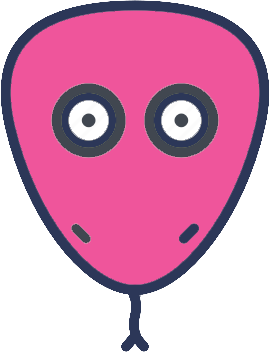
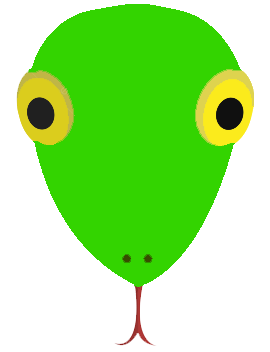
Improved snake design and fixed bugs

diff --git a/snake-game/src/Ai.js b/snake-game/src/Ai.js
@@ -1,13 +1,10 @@
 function aiGridAlignment(snakeHead, setDirection) {
-    if (snakeHead.x > 99) {
+    if (snakeHead.x > 98) {
         snakeHead.x -= 2
         snakeHead.y += 2
-        setDirection("down")
     } else if (snakeHead.x < 0) {
         snakeHead.x += 2
         snakeHead.y += 2
-        setDirection("down")
-
     }
     else if (snakeHead.y > 99) {
         snakeHead.x -= 2
@@ -19,12 +16,18 @@ function aiGridAlignment(snakeHead, setDirection) {
     }
 }
 
-function moveToFood(distanceX, distanceY, snakeHead, setDirection, direction) {
+function moveToFood(food, snakeHead, setDirection, direction) {
     console.log(direction)
+    let distanceX = food.x - snakeHead.x
+    let distanceY = food.y - snakeHead.y
+
     if (distanceX > 0 || distanceY > 0) {
         if (distanceX != 0) {
             snakeHead.x += 2
-            setDirection("right")
+            if (snakeHead.x > 99) {
+                setDirection("down")
+            } else
+                setDirection("right")
         } else if (distanceY != 0) {
             snakeHead.y += 2
             setDirection("down")
@@ -64,22 +67,20 @@ function headBodyAlignment(snakeHead, updatedCells, direction) {
 }
 
 function tick(snakeCells, food, updateBody, setSpeed,
-              setSnake, setDirection, direction, foodCheck) {
+    setSnake, setDirection, direction, foodCheck) {
     setSpeed(25)
 
     let updatedCells = updateBody(snakeCells)
     let snakeHead = snakeCells.slice(-1)[0]
-    let distanceX = food.x - snakeHead.x
-    let distanceY = food.y - snakeHead.y
 
-    moveToFood(distanceX, distanceY, snakeHead, setDirection, direction)
+    moveToFood(food, snakeHead, setDirection, direction)
     headBodyAlignment(snakeHead, updatedCells, direction)
     aiGridAlignment(snakeHead, setDirection)
 
     //Turn this on when AI is improved
     //headBodyCollisionCheck(snakeHead)    
-    //outOfBoundsCheck(snakeHead)
-    
+    // outOfBoundsCheck(snakeHead)
+
     foodCheck(snakeHead, updatedCells)
 
     setSnake(updatedCells)

diff --git a/snake-game/src/index.css b/snake-game/src/index.css
@@ -11,7 +11,6 @@ html {
   height: 1150px;
   border: 2px solid #000;
   background: #0c101c;
-  animation: fadein 0.5s;
   box-shadow: 0 4px 8px 0 rgba(0, 0, 0, 0.2), 0 6px 20px 0 rgba(0, 0, 0, 0.19);
   border-radius: 5px;
 }
@@ -20,12 +19,9 @@ html {
   position: absolute;
   width: 2%;
   height: 2%;
-  background: linear-gradient(
-    354deg,
-    rgba(224, 43, 125, 1) 0%,
-    rgba(245, 73, 151, 1) 100%
-  );
-}
+  background: rgb(58,191,6);
+  background: linear-gradient(354deg, rgba(58,191,6,1) 0%, rgba(72,223,8,1) 100%);
+  }
 
 .snake-head {
   position: absolute;
@@ -33,20 +29,19 @@ html {
   width: auto; 
   max-width: 35px; 
   max-height: 60px;
-  animation: like 2s 3s infinite linear;
-
 }
 
 .food {
   position: absolute;
   width: 2%;
   height: 2.2%;
-  background: radial-gradient(
-    circle,
-    rgba(39, 198, 132, 1) 0%,
-    rgba(63, 255, 45, 1) 100%
+  background: linear-gradient(
+    354deg,
+    rgba(224, 43, 125, 1) 0%,
+    rgba(245, 73, 151, 1) 100%
   );
-  border: 1px solid#25a430;
+  border: 1px solid black;
+  box-shadow: inset 0 0 5px #000000;
   border-radius: 100px;
 }
 
@@ -103,12 +98,14 @@ h1 {
 
 .animation-enter {
   opacity: 1;
-  transition: opacity 300 ease-in;
+  transition: all 1s ease;
+
 }
 
 .animation-leave {
   opacity: 0.01;
-  transition: opacity 250ms ease-in;
+  transition: all 1s ease;
+
 }
 .parent {
   display: flex;
@@ -128,6 +125,8 @@ h1 {
   word-spacing: 2px;
   color: white;
   border-radius: 10px;
+  box-shadow: 0 2px 2px 0 rgba(0, 0, 0, 0.2), 0 6px 20px 0 rgba(0, 0, 0, 0.19);
+
 }
 
 .gameBoardText {

diff --git a/snake-game/src/Snake.js b/snake-game/src/Snake.js
@@ -14,6 +14,7 @@ function rotateHead(cell, direction, style) {
             break;
         case "down":
             style.left = `${cell.x - 0.3}%`;
+            style.top = `${cell.y - 1}%`;
             break;
         case "up":
             style.left = `${cell.x - 0.3}%`;
@@ -28,8 +29,8 @@ export default (props) => {
 
         <ReactCSSTransitionGroup
             transitionName="animation"
-            transitionEnterTimeout={200}
-            transitionLeaveTimeout={200}>
+            transitionEnterTimeout={150}
+            transitionLeaveTimeout={150}>
             {props.snake.map((cell, i) => {
                 const style = {
                     left: `${cell.x}%`,
@@ -38,14 +39,9 @@ export default (props) => {
     
                 if (props.snake.length - 1 == i) {
                     rotateHead(cell, props.direction, style)
-
-                    return <img key={[cell.x, cell.y]} className="snake-head" src='snake-head.png' style={style} ></img>
+                    return <img key="head" className="snake-head" src='snake-head.png' style={style} ></img>
                 }
                 else {
-                    const style = {
-                        left: `${cell.x}%`,
-                        top: `${cell.y}%`
-                    }
                     return <div key={[cell.x, cell.y]} className="snake-dot" style={style}></div>
                 }
             })}

diff --git a/snake-game/src/App.js b/snake-game/src/App.js
@@ -11,7 +11,7 @@ const acronyms = require('./acronyms.js');
 function App() {
   const [score, setScore] = useState(0)
   const [food, setFood] = useState(randomLocation())
-  const [speed, setSpeed] = useState(70)
+  const [speed, setSpeed] = useState(50)
   const [direction, setDirection] = useState("right")
   const prevDirection = usePrevious(direction)
   const [aiStatus, setAi] = useState(false)
@@ -174,7 +174,7 @@ function increaseSnakeLength(updatedCells) {
     <div>
       <GameOverScreen isGameOver={isGameOver} setGameOver={setGameOver} />
       <ScoreBoard score={score} setAi={setAi} aiStatus={aiStatus} setVolume={setVolume} volume={volume} fullWord={currentAcronym.fullWord} />
-      <div className="game-area" >
+      <div className="game-area">
         <Snake snake={snakeCells} direction={direction} />
         <Food food={food} currentAcronym={currentAcronym} showConfetti={showConfetti}  />
       </div>

diff --git a/snake-game/src/Food.js b/snake-game/src/Food.js
@@ -27,8 +27,8 @@ export default (props) => {
                 <div className="foodText"> {props.currentAcronym.acronym}</div>
                 <ReactCSSTransitionGroup
                     transitionName="foodAnswer"
-                    transitionEnterTimeout={300}
-                    transitionLeaveTimeout={300}>
+                    transitionEnterTimeout={500}
+                    transitionLeaveTimeout={500}>
                     <h1  key={props.currentAcronym.fullWord} >
                         <span aria-hidden="true" id="answer">{props.currentAcronym.fullWord} </span>
                     </h1>
